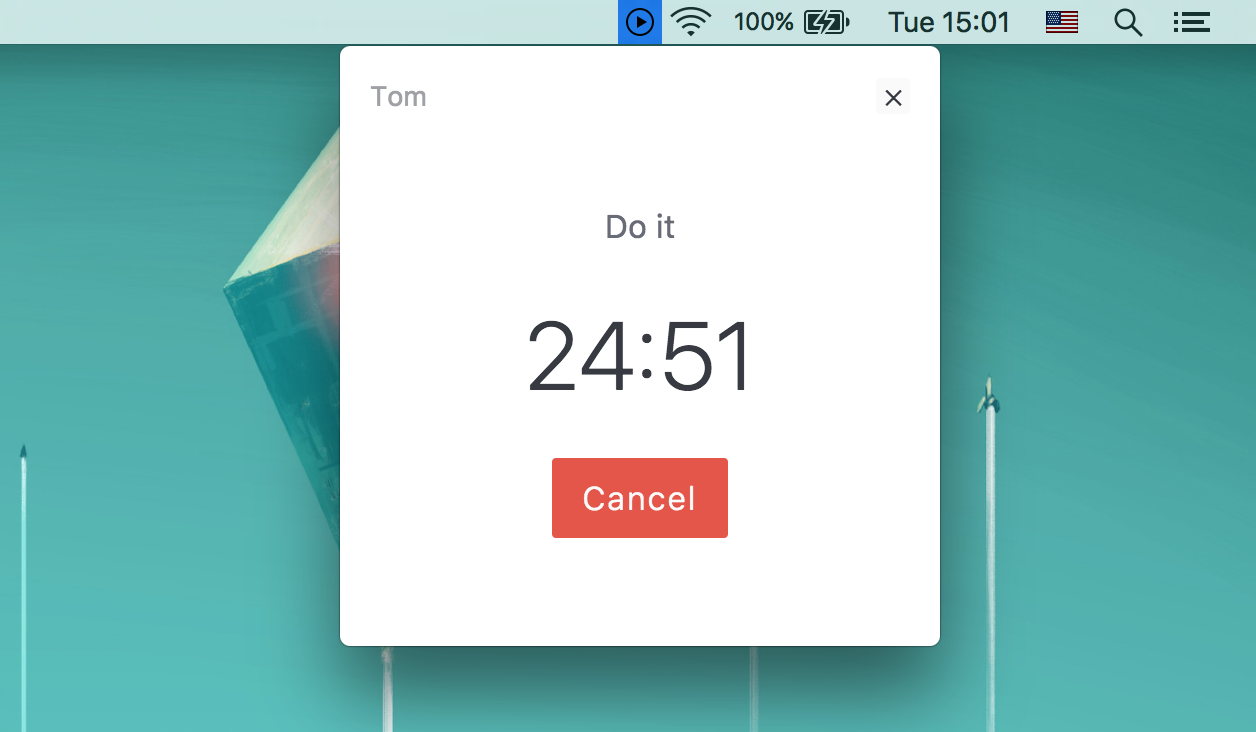
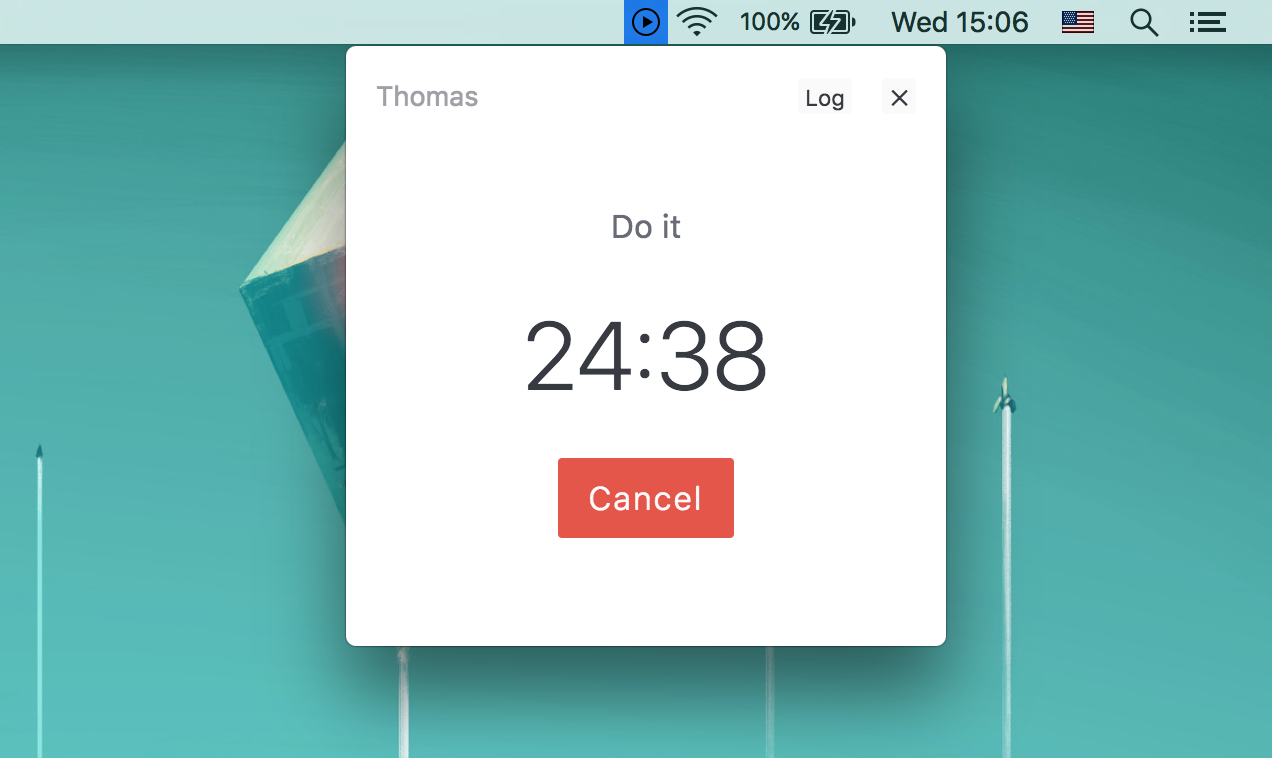
Tom → Thomas

diff --git a/elements/main.js b/elements/main.js
@@ -38,7 +38,7 @@ module.exports = function main (state, emit) {
   return html`
     <main>
       <header>
-        <h1>Tom</h1>
+        <h1>Thomas</h1>
         <article>
           ${routeButton}
           <button

diff --git a/modules/config.js b/modules/config.js
@@ -14,7 +14,7 @@ const appConfig = new Config({
       startTimer: 'Enter'
     }
   },
-  name: `${configDir}/.tom`
+  name: `${configDir}/.thomas`
 })
 
 exports.config = appConfig

diff --git a/README.md b/README.md
@@ -1,4 +1,4 @@
-# tom [![Build Status][travis-image]][travis-url]
+# thomas [![Build Status][travis-image]][travis-url]
 
 > Simple pomodoro timer
 
@@ -7,8 +7,8 @@
 ## Install
 
 ```sh
-git clone https://github.com/andrepolischuk/tom
-cd tom
+git clone https://github.com/andrepolischuk/thomas
+cd thomas
 npm install
 ```
 
@@ -38,5 +38,5 @@ npm run build:windows
 
 MIT
 
-[travis-url]: https://travis-ci.org/andrepolischuk/tom
-[travis-image]: https://travis-ci.org/andrepolischuk/tom.svg?branch=master
+[travis-url]: https://travis-ci.org/andrepolischuk/thomas
+[travis-image]: https://travis-ci.org/andrepolischuk/thomas.svg?branch=master
